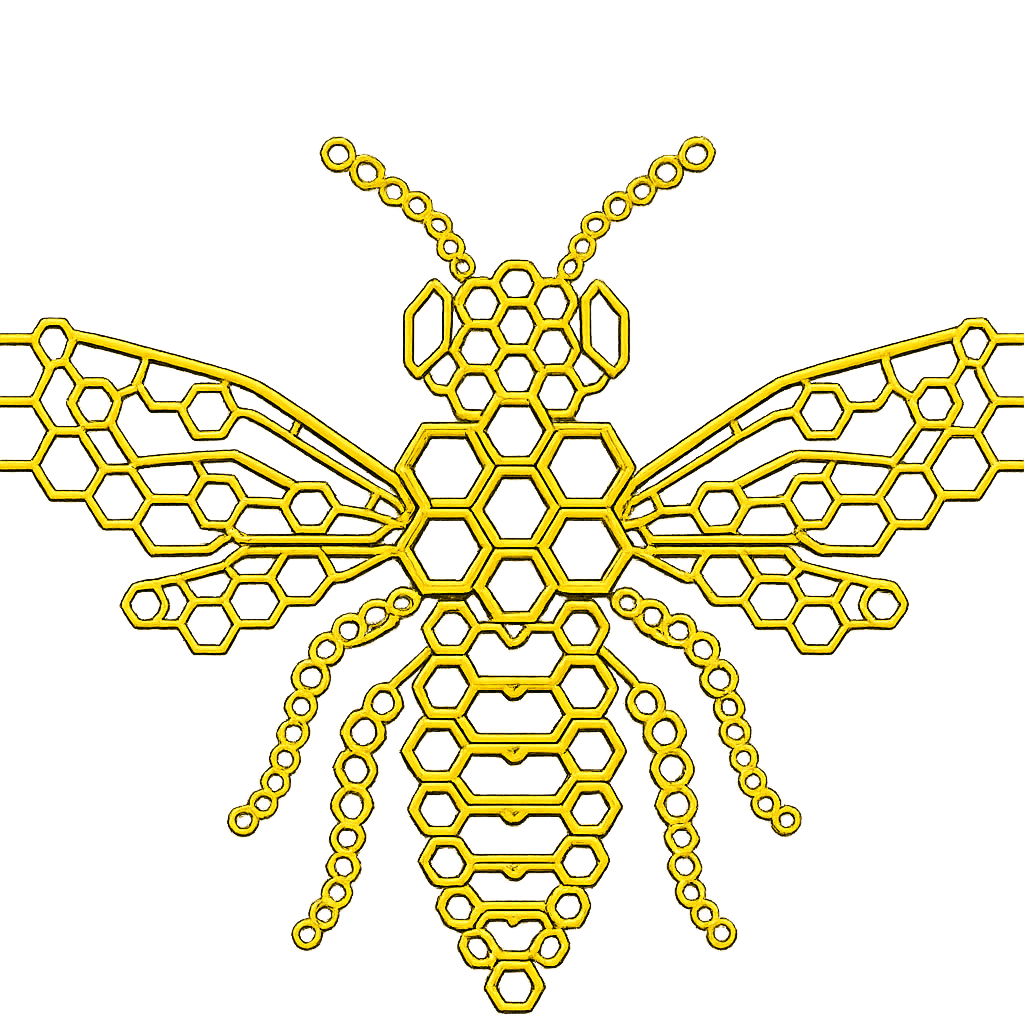
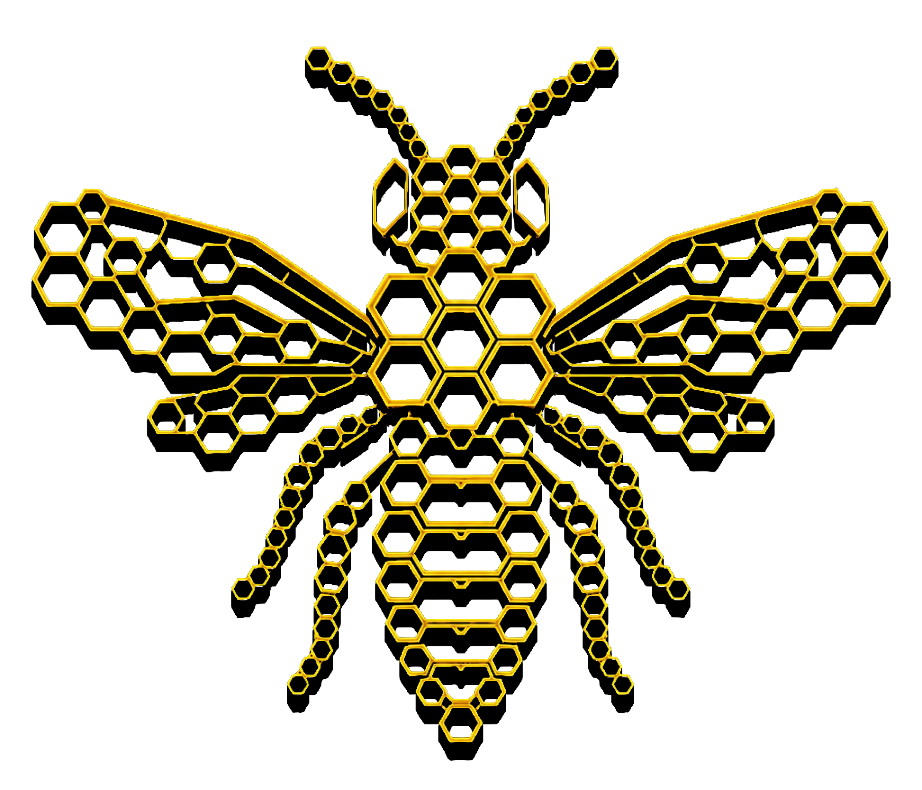
TheHiveMockV1

diff --git a/components/HexGallery.tsx b/components/HexGallery.tsx
@@ -1,0 +1,179 @@
+"use client";
+
+import { useCallback, useEffect, useRef, useState } from "react";
+
+/**
+ * Full-bleed honeycomb gallery. Hexagon "windows" tile the whole section and
+ * are filled with The Hive's photos (1.png-15.png in /public). Clicking a
+ * hexagon opens a lightbox where the user can view the photo full-size and
+ * click through all of them with the arrows (or keyboard).
+ */
+
+const HEX = "polygon(25% 0%, 75% 0%, 100% 50%, 75% 100%, 25% 100%, 0% 50%)";
+const PHOTO_COUNT = 15;
+
+type Cell = { x: number; y: number; w: number; h: number; photo: number };
+
+export default function HexGallery() {
+  const board = useRef<HTMLDivElement>(null);
+  const [cells, setCells] = useState<Cell[]>([]);
+  const [idx, setIdx] = useState<number | null>(null); // lightbox photo index (0-based)
+
+  useEffect(() => {
+    const el = board.current;
+    if (!el) return;
+
+    const build = () => {
+      const Wc = el.clientWidth;
+      const Hc = el.clientHeight;
+      if (!Wc || !Hc) return;
+
+      const hexW = Math.max(180, Math.min(300, Wc / 5));
+      const hexH = (hexW * Math.sqrt(3)) / 2;
+      const colPitch = hexW * 0.75;
+      const startX = -hexW * 0.5;
+      const startY = -hexH;
+
+      const numCols = Math.ceil((Wc - startX) / colPitch) + 1;
+      const out: Cell[] = [];
+      let i = 0;
+      for (let c = 0; c < numCols; c++) {
+        const x = startX + c * colPitch;
+        const offY = c % 2 ? hexH / 2 : 0;
+        const numRows = Math.ceil((Hc - startY - offY) / hexH) + 1;
+        for (let r = 0; r < numRows; r++) {
+          const y = startY + offY + r * hexH;
+          out.push({ x, y, w: hexW, h: hexH, photo: (i % PHOTO_COUNT) + 1 });
+          i++;
+        }
+      }
+      setCells(out);
+    };
+
+    build();
+    const ro = new ResizeObserver(build);
+    ro.observe(el);
+    return () => ro.disconnect();
+  }, []);
+
+  const close = useCallback(() => setIdx(null), []);
+  const next = useCallback(
+    () => setIdx((v) => (v === null ? v : (v + 1) % PHOTO_COUNT)),
+    []
+  );
+  const prev = useCallback(
+    () => setIdx((v) => (v === null ? v : (v - 1 + PHOTO_COUNT) % PHOTO_COUNT)),
+    []
+  );
+
+  // keyboard controls + scroll lock while the lightbox is open
+  useEffect(() => {
+    if (idx === null) return;
+    document.body.style.overflow = "hidden";
+    const onKey = (e: KeyboardEvent) => {
+      if (e.key === "Escape") close();
+      else if (e.key === "ArrowRight") next();
+      else if (e.key === "ArrowLeft") prev();
+    };
+    window.addEventListener("keydown", onKey);
+    return () => {
+      document.body.style.overflow = "";
+      window.removeEventListener("keydown", onKey);
+    };
+  }, [idx, close, next, prev]);
+
+  return (
+    <>
+      <div ref={board} className="absolute inset-0">
+        {cells.map((cell, i) => (
+          <button
+            key={i}
+            type="button"
+            onClick={() => setIdx(cell.photo - 1)}
+            aria-label={`View photo ${cell.photo}`}
+            className="group absolute cursor-pointer transition-[filter] duration-300 [filter:drop-shadow(0_0_10px_rgba(255,193,7,0.4))] hover:z-20 hover:[filter:drop-shadow(0_0_24px_rgba(255,193,7,0.95))]"
+            style={{ left: cell.x, top: cell.y, width: cell.w, height: cell.h }}
+          >
+            {/* yellow hexagon edge */}
+            <div className="absolute inset-0 bg-honey" style={{ clipPath: HEX }} />
+
+            {/* hexagon window filled with a photo */}
+            <div
+              className="absolute inset-[3px] overflow-hidden bg-ink"
+              style={{ clipPath: HEX }}
+            >
+              {/* eslint-disable-next-line @next/next/no-img-element */}
+              <img
+                src={`/${cell.photo}.png`}
+                alt="The Hive"
+                loading="lazy"
+                className="h-full w-full object-cover transition duration-500 group-hover:scale-105"
+              />
+            </div>
+          </button>
+        ))}
+      </div>
+
+      {/* ---- Lightbox ---- */}
+      {idx !== null && (
+        <div
+          className="fixed inset-0 z-[100] flex items-center justify-center bg-black/90 backdrop-blur-sm"
+          onClick={close}
+        >
+          {/* close */}
+          <button
+            type="button"
+            aria-label="Close"
+            onClick={close}
+            className="absolute right-5 top-5 flex h-12 w-12 items-center justify-center rounded-full border border-honey/40 text-honey transition hover:bg-honey hover:text-ink"
+          >
+            <span className="relative block h-5 w-5">
+              <span className="absolute left-1/2 top-1/2 block h-[2px] w-5 -translate-x-1/2 -translate-y-1/2 rotate-45 bg-current" />
+              <span className="absolute left-1/2 top-1/2 block h-[2px] w-5 -translate-x-1/2 -translate-y-1/2 -rotate-45 bg-current" />
+            </span>
+          </button>
+
+          {/* prev */}
+          <button
+            type="button"
+            aria-label="Previous photo"
+            onClick={(e) => {
+              e.stopPropagation();
+              prev();
+            }}
+            className="absolute left-3 flex h-14 w-14 items-center justify-center rounded-full border border-honey/40 text-3xl text-honey transition hover:bg-honey hover:text-ink md:left-8"
+          >
+            ‹
+          </button>
+
+          {/* image */}
+          {/* eslint-disable-next-line @next/next/no-img-element */}
+          <img
+            src={`/${idx + 1}.png`}
+            alt={`The Hive photo ${idx + 1}`}
+            onClick={(e) => e.stopPropagation()}
+            className="max-h-[85vh] max-w-[88vw] rounded-2xl border-2 border-honey/50 object-contain shadow-[0_0_70px_rgba(255,193,7,0.5),0_20px_55px_rgba(0,0,0,0.65)]"
+          />
+
+          {/* next */}
+          <button
+            type="button"
+            aria-label="Next photo"
+            onClick={(e) => {
+              e.stopPropagation();
+              next();
+            }}
+            className="absolute right-3 flex h-14 w-14 items-center justify-center rounded-full border border-honey/40 text-3xl text-honey transition hover:bg-honey hover:text-ink md:right-8"
+          >
+            ›
+          </button>
+
+          {/* counter */}
+          <div className="absolute bottom-6 left-1/2 -translate-x-1/2 rounded-full bg-black/50 px-4 py-1.5 text-sm tracking-widest text-white/80">
+            {idx + 1} / {PHOTO_COUNT}
+          </div>
+        </div>
+      )}
+    </>
+  );
+}

diff --git a/app/page.tsx b/app/page.tsx
@@ -1,9 +1,11 @@
 "use client";
 
 import dynamic from "next/dynamic";
+import Image from "next/image";
 import { useEffect } from "react";
 import { useMenu } from "@/components/MenuContext";
 import HexBee from "@/components/HexBee";
+import HexGallery from "@/components/HexGallery";
 
 // Three.js must only run on the client
 const BeeHero = dynamic(() => import("@/components/BeeHero"), { ssr: false });
@@ -59,7 +61,7 @@ export default function Home() {
         <div
           className="absolute inset-0 z-10 transition-all duration-500 ease-out"
           style={{
-            transform: open ? "translateX(-20%) scale(0.9)" : "none",
+            transform: open ? "translateX(-16vw) scale(0.9)" : "none",
             opacity: open ? 0.7 : 1,
           }}
         >
@@ -71,17 +73,22 @@ export default function Home() {
         <div
           className="pointer-events-none relative z-20 px-6 text-center transition-all duration-500"
           style={{
-            transform: open ? "translateX(-12%)" : "none",
-            opacity: open ? 0.45 : 1,
+            transform: open ? "translateX(-16vw)" : "none",
+            opacity: open ? 0.7 : 1,
           }}
         >
-          <p className="mb-4 font-display text-sm font-semibold uppercase tracking-[0.4em] text-honey">
+          {/* soft dark halo so the copy stays readable over the bee */}
+          <div
+            aria-hidden
+            className="pointer-events-none absolute left-1/2 top-1/2 -z-10 h-[155%] w-[130%] -translate-x-1/2 -translate-y-1/2 rounded-[50%] bg-ink/55 blur-2xl"
+          />
+          <p className="mb-4 font-display text-sm font-semibold uppercase tracking-[0.4em] text-honey [text-shadow:0_1px_10px_rgba(0,0,0,0.95)]">
             Rockingham, NC
           </p>
           <h1 className="font-display text-6xl font-extrabold uppercase leading-[0.9] tracking-tight text-white drop-shadow-[0_4px_30px_rgba(0,0,0,0.7)] sm:text-7xl md:text-8xl lg:text-9xl">
             The <span className="text-honey">Hive</span>
           </h1>
-          <p className="mx-auto mt-6 max-w-xl text-balance text-base text-white/80 md:text-lg">
+          <p className="mx-auto mt-6 max-w-xl text-balance text-base text-white/90 [text-shadow:0_1px_10px_rgba(0,0,0,0.9)] md:text-lg">
             A private indoor party playground — plus Nectar coffee &amp; ice
             cream. Where every celebration is the bee&apos;s knees.
           </p>
@@ -96,7 +103,7 @@ export default function Home() {
             </a>
             <a
               href="#about"
-              className="rounded-full border border-white/30 px-8 py-3.5 font-display text-sm font-bold uppercase tracking-wide text-white transition hover:border-honey hover:text-honey"
+              className="rounded-full border border-white/50 bg-ink/50 px-8 py-3.5 font-display text-sm font-bold uppercase tracking-wide text-white backdrop-blur-sm transition hover:border-honey hover:bg-ink/70 hover:text-honey"
             >
               Explore
             </a>
@@ -124,11 +131,12 @@ export default function Home() {
           </p>
           <p className="reveal mx-auto mt-4 max-w-3xl text-center text-lg leading-relaxed text-white/75">
             We&apos;re also home to{" "}
-            <span className="font-semibold text-honey">Nectar</span>, our coffee
-            &amp; ice cream bar, and{" "}
+            <span className="font-semibold text-honey">Nectar</span>, our
+            delightful coffee &amp; ice cream bar, and{" "}
             <span className="font-semibold text-honey">Blume</span>, an upscale,
-            cozy room for grown-up gatherings. Whatever the occasion, we&apos;ll
-            make it the bee&apos;s knees.
+            cozy room designed for grown-up gatherings. Whether you&apos;re
+            celebrating something special or simply enjoying good company,
+            we&apos;ll make every occasion the bee&apos;s knees.
           </p>
 
           <div className="reveal mt-16 grid gap-6 sm:grid-cols-2 lg:grid-cols-3">
@@ -167,39 +175,22 @@ export default function Home() {
       </section>
 
       {/* ============ GALLERY ============ */}
-      <section id="gallery" className="relative px-6 py-28 md:py-32">
-        <div className="mx-auto max-w-6xl">
-          <div className="reveal text-center">
+      <section
+        id="gallery"
+        className="relative h-[90vh] min-h-[600px] w-full overflow-hidden"
+      >
+        {/* full-bleed honeycomb fills the section */}
+        <HexGallery />
+
+        {/* title dead-center over the hexagons */}
+        <div className="reveal pointer-events-none absolute inset-0 z-10 flex flex-col items-center justify-center px-6 text-center">
+          <div className="rounded-3xl bg-ink/55 px-10 py-8 backdrop-blur-sm">
             <p className="mb-3 font-display text-sm font-semibold uppercase tracking-[0.3em] text-honey">
               Gallery
             </p>
             <h2 className="font-display text-4xl font-extrabold uppercase tracking-tight md:text-6xl">
               Buzzin&apos; around The Hive
             </h2>
-          </div>
-
-          <div className="mt-16 grid grid-cols-2 gap-6 sm:grid-cols-3">
-            {Array.from({ length: 6 }).map((_, i) => (
-              <div
-                key={i}
-                className="reveal flex justify-center"
-                style={{ transitionDelay: `${i * 90}ms` }}
-              >
-                <div className="group relative aspect-[1/1.15] w-full max-w-[260px] transition-[filter] duration-300 [filter:drop-shadow(0_0_14px_rgba(255,193,7,0.45))] hover:[filter:drop-shadow(0_0_28px_rgba(255,193,7,0.9))]">
-                  {/* yellow hexagon edge */}
-                  <div className="absolute inset-0 bg-honey [clip-path:polygon(50%_0%,100%_25%,100%_75%,50%_100%,0%_75%,0%_25%)]" />
-                  {/* photo placeholder, inset to leave a hexagon border */}
-                  <div className="absolute inset-[3px] flex items-center justify-center overflow-hidden bg-gradient-to-br from-charcoal to-ink [clip-path:polygon(50%_0%,100%_25%,100%_75%,50%_100%,0%_75%,0%_25%)]">
-                    <span className="text-5xl opacity-40 transition duration-300 group-hover:scale-110 group-hover:opacity-70">
-                      🐝
-                    </span>
-                    <span className="absolute bottom-6 left-0 right-0 text-center text-[10px] uppercase tracking-widest text-white/40">
-                      Photo {i + 1}
-                    </span>
-                  </div>
-                </div>
-              </div>
-            ))}
           </div>
         </div>
       </section>
@@ -273,8 +264,14 @@ export default function Home() {
       {/* ============ FOOTER ============ */}
       <footer className="border-t border-honey/15 bg-black px-6 py-12">
         <div className="mx-auto flex max-w-6xl flex-col items-center justify-between gap-6 md:flex-row">
-          <div className="flex items-center gap-2 font-display text-lg font-bold">
-            <span className="text-2xl">🐝</span>
+          <div className="flex items-center gap-3 font-display text-xl font-bold">
+            <Image
+              src="/logo.png"
+              alt="The Hive logo"
+              width={56}
+              height={56}
+              className="h-12 w-12 object-contain drop-shadow-[0_3px_6px_rgba(0,0,0,0.55)]"
+            />
             The <span className="text-honey">Hive</span>
           </div>
 

diff --git a/components/HexBee.tsx b/components/HexBee.tsx
@@ -1,19 +1,31 @@
 "use client";
 
 import { useEffect, useRef } from "react";
+import { useMenu } from "./MenuContext";
 
 /**
  * Renders the hexagon bee artwork (public/hero.png) with a gentle float and a
  * smooth, mouse-driven 3D tilt + drift. Motion is eased every animation frame
- * (lerp toward a target) so it glides instead of snapping.
+ * (lerp toward a target) so it glides instead of snapping. While the menu is
+ * open the bee stops reacting to the mouse and re-centers itself.
  */
 export default function HexBee() {
   const inner = useRef<HTMLDivElement>(null);
   const target = useRef({ rx: 0, ry: 0, tx: 0, ty: 0 });
   const cur = useRef({ rx: 0, ry: 0, tx: 0, ty: 0 });
 
+  const { open } = useMenu();
+  const openRef = useRef(open);
+
+  // keep a live ref of the menu state; recenter the bee when the menu opens
+  useEffect(() => {
+    openRef.current = open;
+    if (open) target.current = { rx: 0, ry: 0, tx: 0, ty: 0 };
+  }, [open]);
+
   useEffect(() => {
     const onMove = (e: MouseEvent) => {
+      if (openRef.current) return; // not interactive while the menu is open
       const nx = e.clientX / window.innerWidth - 0.5; // -0.5 .. 0.5
       const ny = e.clientY / window.innerHeight - 0.5;
       target.current = {

diff --git a/components/Navbar.tsx b/components/Navbar.tsx
@@ -36,7 +36,7 @@ export default function Navbar() {
             width={64}
             height={64}
             priority
-            className="h-14 w-14 animate-spin-y object-contain drop-shadow-[0_3px_6px_rgba(0,0,0,0.55)] [transform-style:preserve-3d] md:h-16 md:w-16"
+            className="h-14 w-14 animate-float object-contain drop-shadow-[0_3px_6px_rgba(0,0,0,0.55)] md:h-16 md:w-16"
           />
           <span className="font-display text-white">
             The <span className="text-honey">Hive</span>